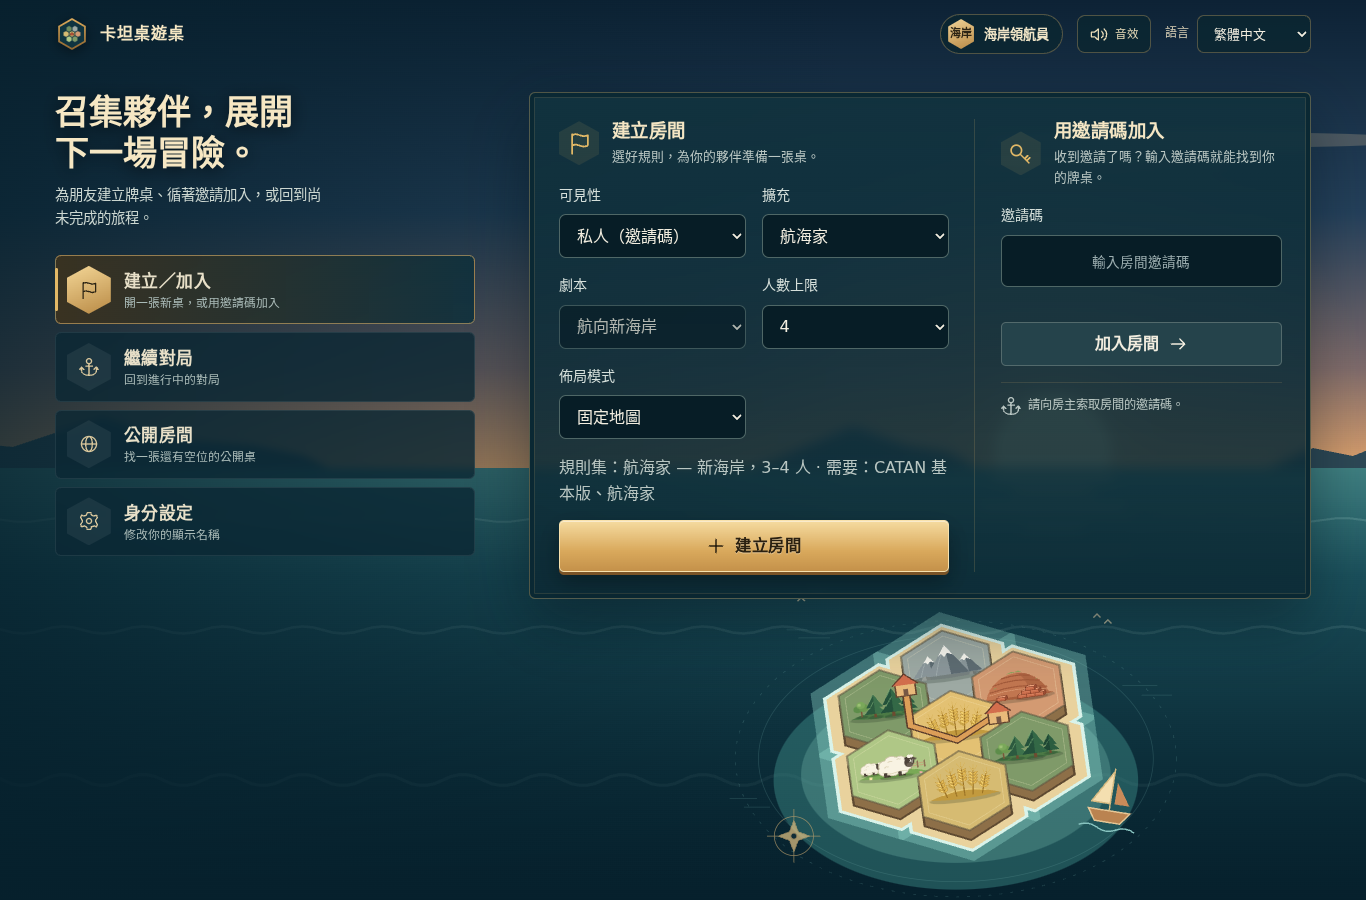
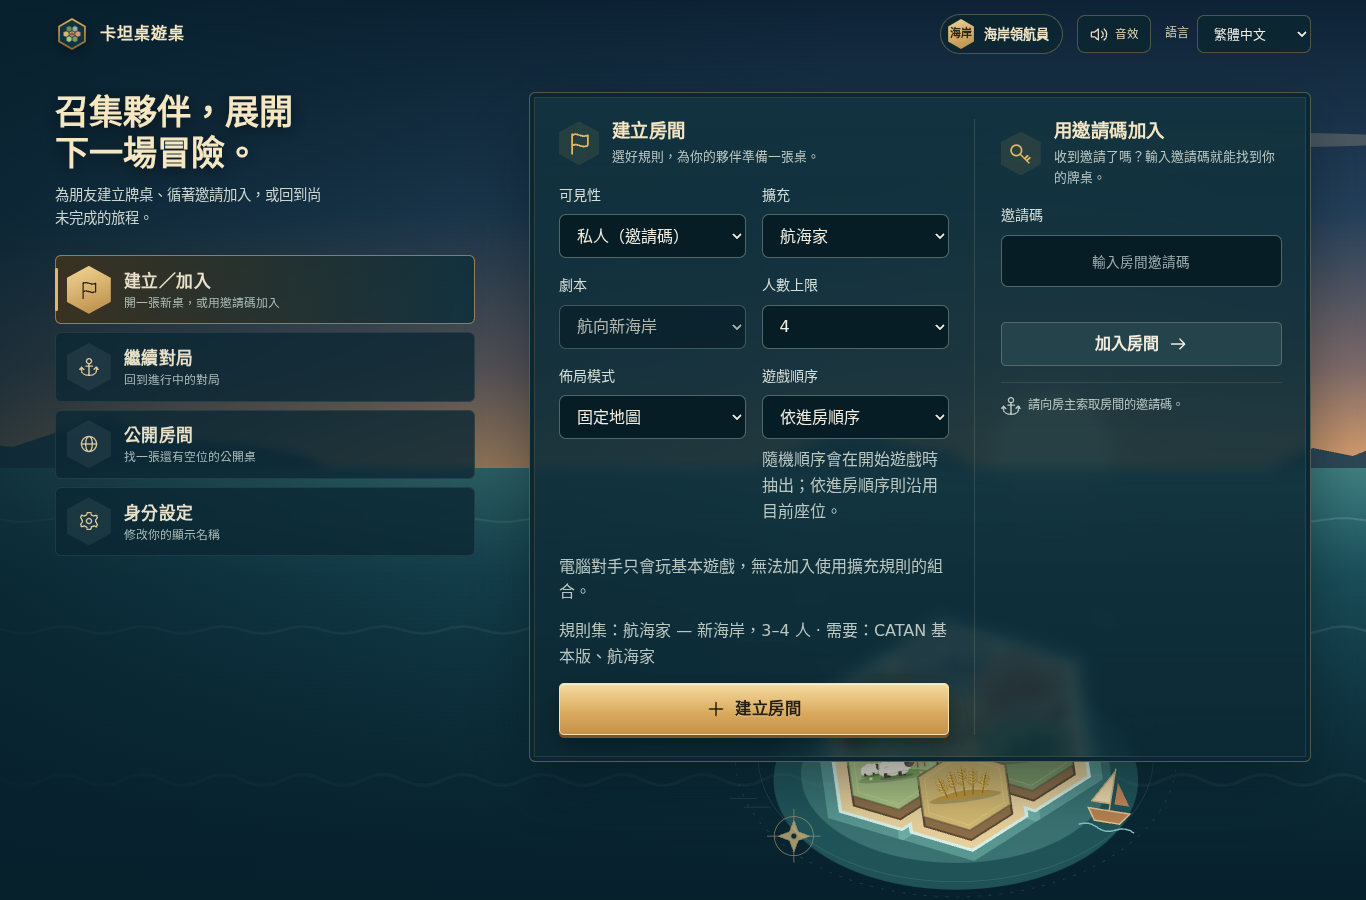
📝 docs(seafarers): record the rebase, review fixes and open base item

Changed region(s): [[0.3997, 0.4044, 0.8302, 0.9022]]

diff --git a/docs/FIDELITY.md b/docs/FIDELITY.md
@@ -71,13 +71,13 @@ master's own engine at `0815c76`
 | R-COMPAT | registry v2 metadata; exact, order-insensitive expansion/scenario/variant matching with no transitive inference; full count × expansion × scenario matrix; profile id or `{ ruleset }` room requests; fixture profiles never resolvable | `packages/rules/test/profiles.test.ts`, `packages/server/test/rooms.test.ts`, `packages/web/test/rulesets.test.ts` | covered |
 | R-PLATFORM | pending queue order/responders/continuations and old snapshots without a queue; rules-module hooks (setup, roll, discard limit, production, board change, commands, score, projection, hints) through a fixture module; layout registry; generic topologies (sea frame, several islands, marked harbours); base digests unchanged | `packages/rules/test/platform.test.ts`, `topology-generic.test.ts`, `base-regression.test.ts`, `message-ids.test.ts` | covered; the Seafarers module is the first real module |
 | R-SF setup | New Shores 3/4 maps against the SF25 p. 4/5 component tables (35/42 cells, terrain, discs, ports, islands, robber on the 12 / desert, pirate on the frame); 5–6 fixed small islands + B56 main-island inventory + 11 ports with the extra wool 2:1 (SF56-25 pp. 1, 4); 14 VP, 15 ships, B25/B56-25 bank and deck; starting settlements on the main island; coastal setup ship instead of the road (SF25 pp. 3–4) | `packages/rules/test/seafarers-layout.test.ts` (5), `seafarers-ships.test.ts` setup block (3) | covered |
-| R-SF ships | ships on sea edges and the frame's inner edge, never on land–land edges; roads never on sea–sea edges; a ship links to own ships/buildings, never to a road; no ship past an opponent building; one piece per coastal edge; lumber + wool and 15 pieces; no new ship next to the pirate (SF25 p. 2, SF-FAQ 5/6/15/17) | `seafarers-ships.test.ts` placement block (7) | covered |
-| R-SF moves | one move per action window; not a ship built this turn; open end only; closed route between own buildings immovable, also when an opponent building interrupts it; branch ship movable; no move from/to the pirate's hex; target must satisfy placement after lifting; awards and victory judged on the final board only (SF25 p. 2, SF-FAQ 12–14) | `seafarers-ships.test.ts` moves block (8) | covered; ship circles are an open fixture (below) |
-| R-SF pirate | 7/Knight choose robber (land) or pirate (sea hex or frame); pirate must change place; theft only from players with a ship on the hex, never a coastal settlement owner (SF25 pp. 2–3, SF-FAQ 4/7) | `seafarers-rules.test.ts` pirate block (4) | covered |
-| R-SF gold | settlement 1 / city 2 resources of choice, in turn order from the roller, supply shortage, robber blocks gold (SF25 p. 2, SF-FAQ 2) | `seafarers-rules.test.ts` gold block (4) | covered; ordering is a deliberate interpretation |
-| R-SF routes | Road Building with road + ship and with two ships; Longest Trade Route joins roads and ships only at an own building; opponent buildings interrupt; trails/cycles as for roads (SF25 pp. 2–3, SF-FAQ 1/16) | `seafarers-rules.test.ts` (5) | covered |
+| R-SF ships | ships on sea edges and the frame's inner edge, never on land–land edges; roads never on sea–sea edges; a ship links to own ships/buildings, never to a road; no ship past an opponent building; one piece per coastal edge; lumber + wool and 15 pieces; no new ship next to the pirate (SF25 p. 2, SF-FAQ 5/6/15/17) | `seafarers-ships.test.ts` placement block (7); `seafarers-clauses.test.ts`: separate road/ship supplies (3), no road or ship past an opponent building (2), distance rule across a strait (SF-FAQ 11) | covered |
+| R-SF moves | one move per action window; not a ship built this turn; open end only; closed route between own buildings immovable, also when an opponent building interrupts it; branch ship movable; no move from/to the pirate's hex; target must satisfy placement after lifting; awards and victory judged on the final board only (SF25 p. 2, SF-FAQ 12–14) | `seafarers-ships.test.ts` moves block (8); `seafarers-clauses.test.ts`: no move before the roll, loop back to one building | covered; ship circles and loops are open fixtures (below) |
+| R-SF pirate | 7/Knight choose robber (land) or pirate (sea hex or frame); pirate must change place; theft only from players with a ship on the hex, never a coastal settlement owner (SF25 pp. 2–3, SF-FAQ 4/7) | `seafarers-rules.test.ts` pirate block (4); `seafarers-clauses.test.ts`: Knight sends the pirate to the frame, no theft from own ships or an empty hand | covered |
+| R-SF gold | settlement 1 / city 2 resources of choice, in turn order from the roller, supply shortage, robber blocks gold (SF25 p. 2, SF-FAQ 2) | `seafarers-rules.test.ts` gold block (4); `seafarers-clauses.test.ts`: a 7 gives no gold, supply empty at creation, queued frame on an empty supply, 5–6 turn order from the roller | covered; ordering is a deliberate interpretation |
+| R-SF routes | Road Building with road + ship and with two ships; Longest Trade Route joins roads and ships only at an own building; opponent buildings interrupt; trails/cycles as for roads (SF25 pp. 2–3, SF-FAQ 1/16) | `seafarers-rules.test.ts` (5); `seafarers-clauses.test.ts`: Road Building before the roll with a ship, free ship not movable that turn, ship supply exhausted mid-effect, ship loop length, road and ship meeting at an opponent building | covered |
 | R-SF islands / victory | +2 per player per small island (also when others settled first), grouped 5–6 islands count once, no bonus for setup; 14 VP on the own turn (SF25 p. 4, SF56-25 p. 4) | `seafarers-rules.test.ts` (5) | covered |
-| R-SF paired | Player 2 builds and moves a ship in their own window, no domestic trade (SF56-25 pp. 2–3) | `seafarers-rules.test.ts` paired block (1) | covered |
+| R-SF paired | Player 2 builds and moves a ship in their own window, no domestic trade; Player 2 moves after Player 1 moved; not a ship built in their own window; Player 2 wins at 14 in their window; a Player 1 win ends the turn before Player 2 (SF56-25 pp. 2–3) | `seafarers-rules.test.ts` paired block (1), `seafarers-clauses.test.ts` (4) | covered |
 | R-SF games / VIS | simulated 3/4/5/6-player games finish with a 14-point winner, conserve the supply and keep pieces legal; module projection public only, pirate theft private | `seafarers-sim.test.ts` (5), `seafarers-rules.test.ts` privacy (1), `packages/server/test/seafarers.test.ts` (2) | covered |
 | R-SF client | ship actions, two-step ship move, pirate targets, gold picker, SVG ships/pirate/tokens, sea targets at the water plane, event text; browser run of a live game (setup ship, ship build, ship move, island bonus, pirate, gold) and the 3/4/6-player maps in SVG and 3D | `packages/web/test/seafarers.test.tsx` (7), `scripts/seafarers/capture.py`, [captures](screenshots/seafarers/README.md) | covered in headless Chromium; no human playtest |
 | R-CHAT | audience, deduplication, length/rate limits, mute isolation, epoch isolation, paging, verbatim markup | `packages/server/test/chat.test.ts` | covered |
@@ -175,17 +175,30 @@ reviewer can challenge them rather than discover them by accident.
 - **5–6 island outlines.** The SF56-25 map outlines `6`+`12` and `3`+`10`
   with the sea hex between them as one area each; the bonus treats each area
   as one small island, as SF25 p. 4 defines small islands by their outline.
+  The VP token count agrees: SF56-25 supplies 48 tokens = 4 small islands × 6
+  players × 2, just as SF25's 18 (3 players) and 24 (4 players) are 3 small
+  islands × 3 or 4 players × 2.
 - **5–6 main island.** Built with the engine's CATAN 5–6 variable procedure
   (shuffled terrain, shuffled number discs on the non-desert hexes, robber on
   the first desert), the same simplification as gap 3 for the base board; the
   B56-25 A–Z disc order is not modelled. Ports are shuffled over the 11
-  marked positions.
+  marked positions. Because the discs are shuffled, the red 6 and 8 may land
+  on adjacent hexes; SF25 p. 5 forbids that only for its own variable setup,
+  and B56-25 avoids it through the A–Z spiral, which the engine does not use.
 - **Open fixture — ship circles (SF25 p. 2 vs SF-FAQ 18).** SF25 defines an
   open end as one not next to an own ship or building; SF-FAQ 18 calls every
   ship of a building-less circle open and lets the end ships of a loop back to
   one building move. The engine follows SF25 (no ship of a circle or loop
-  moves) and `seafarers-ships.test.ts` pins that; flipping it needs a
-  confirmed 2025 clarification.
+  moves). `seafarers-ships.test.ts` pins the circle and
+  `seafarers-clauses.test.ts` the loop back to one building (FAQ 18 special
+  case 1); flipping them needs a confirmed 2025 clarification.
+- **Roads and ships keep separate supplies.** 15 roads and 15 ships per
+  player; a ship never uses up a road piece or the reverse, also for Road
+  Building (`seafarers-clauses.test.ts`).
+- **A queued gold frame on an empty supply.** When a gold frame activates
+  behind another frame and the supply is already empty, every entitled player
+  is skipped with `gold.chosen` reporting the shortfall, exactly as when the
+  frame is created on an empty supply.
 
 ## Known gaps and unresolved items
 
@@ -256,3 +269,10 @@ These are recorded rather than hidden. None of them is presented as verified.
     only); the 5–6 board is always variable as SF56-25 prescribes. No human
     playtest of the expansion has been run (U-07/U-08), and the gold field
     keeps the platform's generic gold tile art.
+13. **Open base item: the Road Building grant is fixed at play time.** The
+    card grants `min(2, placements available when played)`. When only one
+    road (or ship) target exists at play time but placing it opens a second,
+    the player still gets one free piece; B25 promises two. This is base
+    behaviour since `base-2025.1` (PR #60 lists it as a follow-up), so
+    changing it is a base rule change that needs the maintainer's approval
+    and a new base rule version. Seafarers inherits it unchanged.

diff --git a/docs/aegis/work/2026-11-01-seafarers.md b/docs/aegis/work/2026-11-01-seafarers.md
@@ -105,5 +105,46 @@ them, so each pair is one small island for the bonus.
 
 - No human playtest, physical device or screen-reader check of the expansion.
 - 3/4-player variable setup (SF25 p. 5) is not offered; other Seafarers scenarios are out of scope.
-- Open fixture: SF-FAQ 18 ship-circle cases vs SF25 p. 2 (SF25 implemented).
+- Open fixture: SF-FAQ 18 ship-circle and loop cases vs SF25 p. 2 (SF25 implemented).
+- Open base item: the Road Building grant is fixed at play time (FIDELITY gap 13).
 - PostgreSQL repository tests were not run (no `TEST_POSTGRES_URL`).
+
+## Rebased onto the new P0 and review fixes (2026-11-02)
+
+P0 was rebased onto master `0815c76` (bots, #60 base rule fixes, random game
+order); this branch was rebased onto it.
+
+- **#60 in the Seafarers paths.** Road connectivity now follows #60: a road
+  extends from an own building or from an empty vertex reached by an own
+  *road* (ships hand over to roads only at a building, SF25 p. 2); an opponent
+  building blocks both roads and ships. Road Building uses #60's cap: the
+  grant is `min(2, roads capped by road pieces + ship targets)`, the effect
+  ends after a placement when no road or ship target is left, and
+  `normalizedPending` caps a stalled effect to the road pieces (when a road
+  target exists) plus the ship targets. P1's own stall fix (road edges ignored
+  once the road supply is used up) was dropped for #60's. Base behaviour is
+  unchanged (the re-pinned base digests still match).
+- **review-sf 1 (HIGH): separate supplies.** `countRoads` counted ships, so 8
+  roads + 7 ships refused a 9th road and Road Building ended early. It now
+  counts roads only.
+- **review-sf 2 (HIGH): routes past an opponent building.** Fixed by #60;
+  fixtures for roads and ships.
+- **review-sf 3 (LOW): Road Building grant at play time.** Base behaviour;
+  left unchanged and recorded as FIDELITY gap 13 for maintainer approval.
+- **review-sf 4 (LOW): queued gold frame on an empty supply.** New module hook
+  `activatePending` runs when a queued frame with responders becomes active;
+  Seafarers skips every entitled player there when the supply is empty.
+- **FIDELITY:** 48 VP tokens = 4 small islands × 6 × 2 supports the 5–6 island
+  grouping; red 6/8 may be adjacent on the shuffled 5–6 main island; separate
+  supplies and the queued gold case; evidence rows for the new fixtures.
+- **Fixtures** (`packages/rules/test/seafarers-clauses.test.ts`, 22): the
+  untested R-SF clauses from the review, each citing SF25 / SF56-25 / SF-FAQ.
+- **Bots:** Seafarers profiles have rules modules, so `ProfileView.botSeats`
+  is false and rooms refuse bot seats (server test added).
+- **Browser:** the capture harness ran again (35 cases, no page errors); only
+  the lobby changed visually and was refreshed.
+
+`SMOKE_PORT=3421 pnpm verify` (exit 0): rules 24 files / 260 tests; protocol
+8; bots 45; server 148 passed, 15 skipped (PostgreSQL, no
+`TEST_POSTGRES_URL`); web 57 files / 589 tests; build; smoke 13/13; dev runner
+1/1.

diff --git a/docs/screenshots/seafarers/README.md b/docs/screenshots/seafarers/README.md
@@ -9,7 +9,7 @@ sha256; this folder keeps a curated subset).
 
 | File | Renderer | Viewport | State |
 |---|---|---|---|
-| `lobby-seafarers.png` | – | 1366×900 | lobby: Seafarers → Heading for New Shores, ruleset and required boxes |
+| `lobby-seafarers.png` | – | 1366×900 | lobby: Seafarers → Heading for New Shores, game order, why bots are not offered, ruleset and required boxes |
 | `map-3p-svg-desktop.png` | SVG | 1366×900 | 3-player map (SF25 p. 4) during setup; pirate waiting on the frame |
 | `map-3p-r3f-desktop.png` | 3D | 1366×900 | the same in 3D |
 | `map-4p-svg-desktop.png` | SVG | 1366×900 | 4-player map (SF25 p. 5); setup targets only on the main island |
@@ -43,3 +43,10 @@ in-game base captures byte-identical to the P0 references
 
 Captures are review evidence, not accepted visual baselines; no physical
 device, screen reader or human playtest is claimed.
+
+After the rebase onto master `0815c76` the harness ran again against a fresh
+build (service on `127.0.0.1:3022`): 35 cases, no page errors. Only the lobby
+looked different (master's game-order field and the note that bots only play
+the base game), so `lobby-seafarers.png` was replaced (sha256 `5e4c72b6b2e11a67…`). The
+other captures differ only by game randomness (robber, dice, hands, the
+variable 5–6 main island) and were kept; `report.json` lists the first run.
